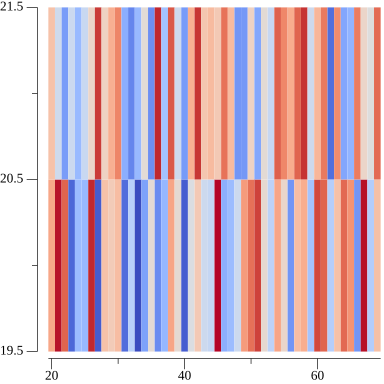
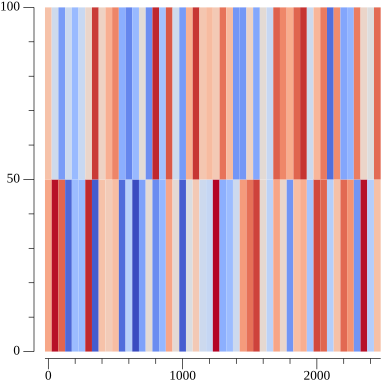
which values??????

diff --git a/main.go b/main.go
@@ -209,10 +209,9 @@ func main() {
 	plotData.grid = xTest
 	plotData.N = len(xTest)
 	plotData.M = len(xTest[0])
-	plotData.resolution = 1
-	plotData.minX = 20
-	plotData.minY = 20
-	plotData.Dims()
+	plotData.resolution = 50
+	plotData.minX = 0.2
+	plotData.minY = 25
 	pal := moreland.SmoothBlueRed().Palette(255)
 	heatmap := plotter.NewHeatMap(plotData, pal)
 	ph.Add(heatmap)
